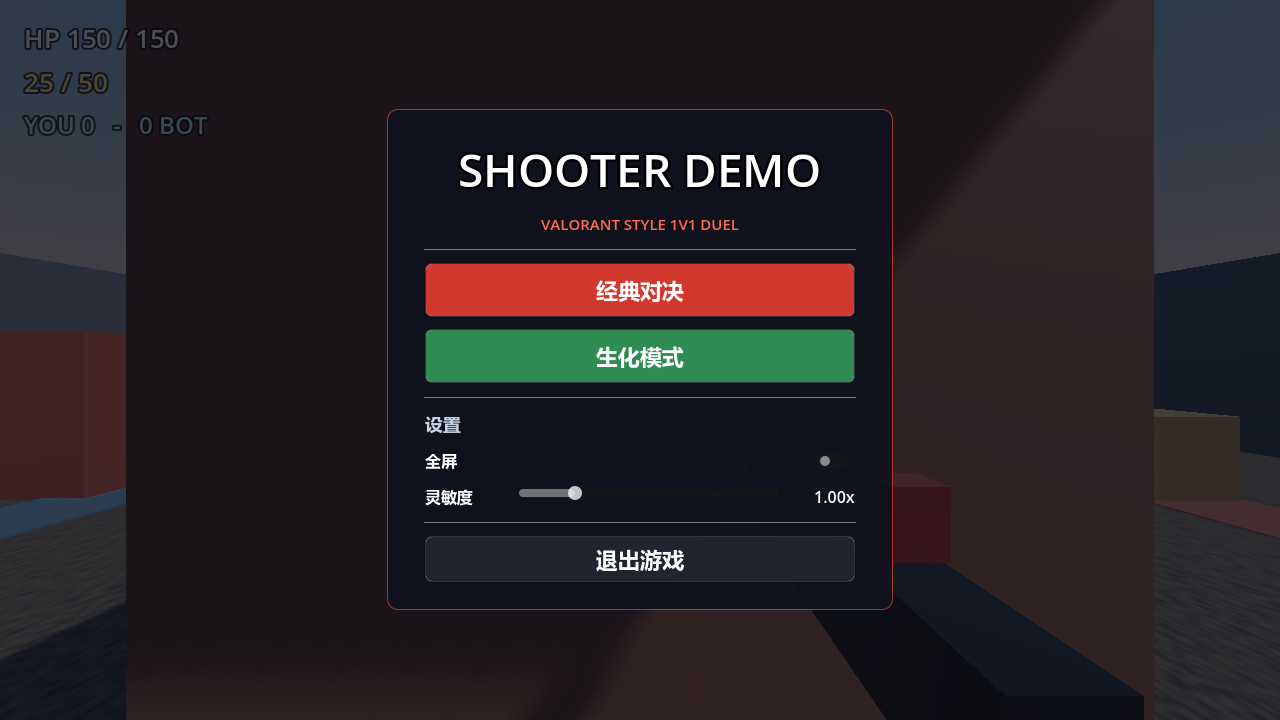
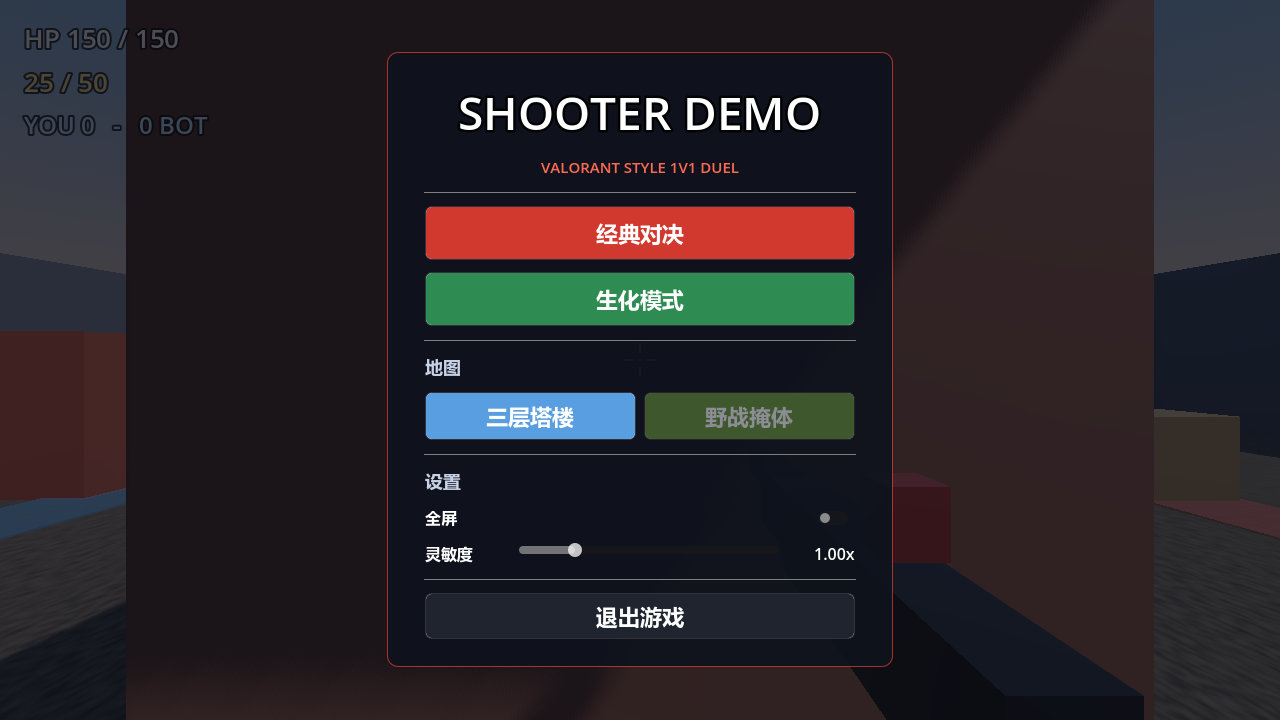
Add map selection and destructible field map

diff --git a/README.md b/README.md
@@ -12,6 +12,7 @@ in the style of the Valorant "Duel" maps.
 ![Map](outputs/map_three_floors.png)
 ![Lockon](outputs/lockon.png)
 ![Zombie](outputs/zombie_mode.png)
+![Field](outputs/field_map.png)
 
 ## How to run
 
@@ -66,6 +67,15 @@ disables mouse look while equipped, and keeps the crosshair on the target.
   every 5 seconds, and zombies down without leaving tombstones. The player has
   1000 HP, dies once and it is game over, and zombies can only attack with a
   clear line of sight.
+
+## Maps
+
+- Three-Layer Tower: the default map with vertical/horizontal ropes, jump pads,
+  wormholes, ramps, and three floors.
+- Field Cover: open field map with wooden crates that can be shot apart and
+  grass bushes that provide low cover.
+
+Both maps can be selected from the main menu.
 
 ## Valorant-aligned values
 
